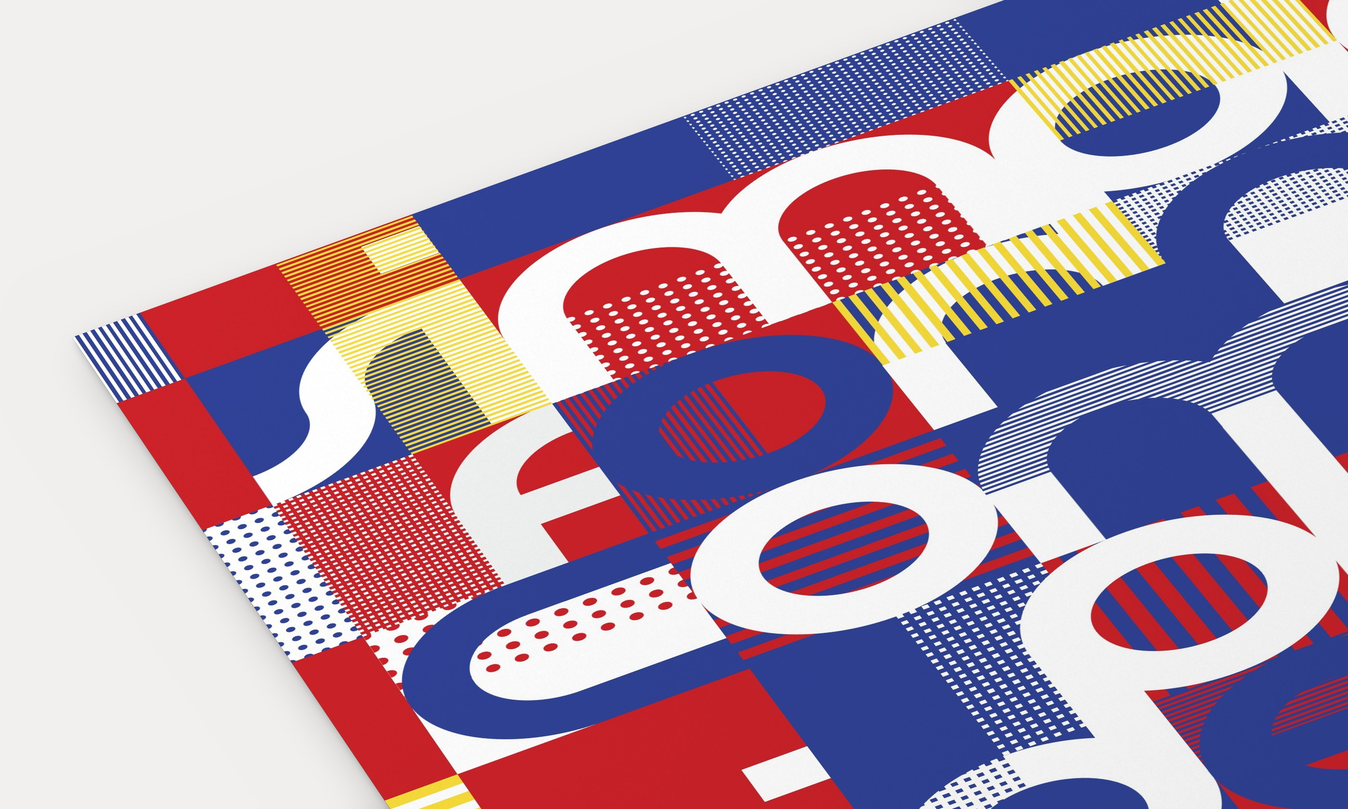
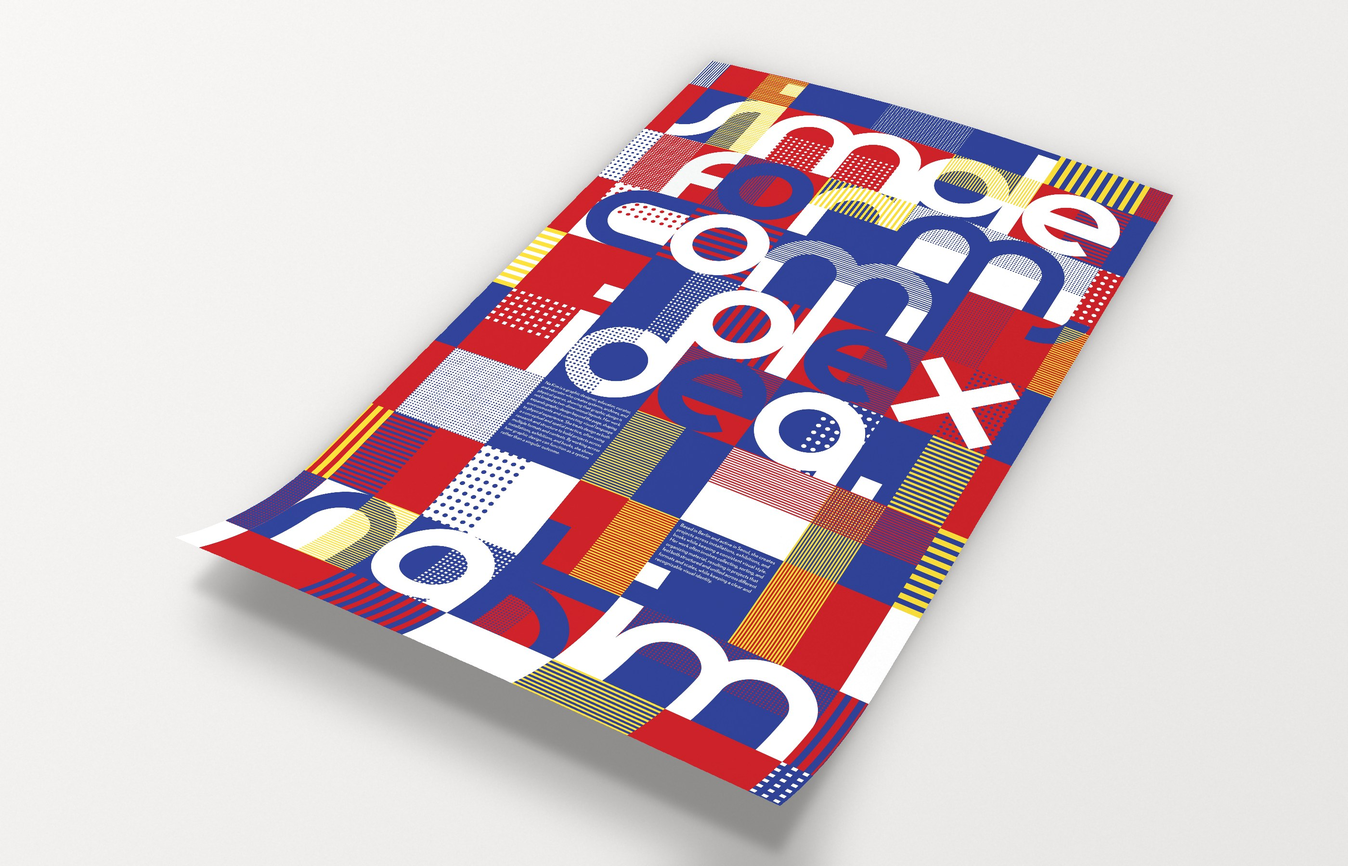
Design Hero: natural 3D angled poster mockup
Claude-Session: https://claude.ai/code/session_015vF3fknx26ijuPFq6BGXjN

diff --git a/design-hero-site/index.html b/design-hero-site/index.html
@@ -109,8 +109,8 @@
               <p class="body">Fine patterns of dots, lines and dashes fill the grid like texture, with bolder ones kept behind the letters so they never compete with legibility. For the “K” in her name, a classmate pointed out that the straightened leg resembled a Korean character, a nod to her background that made me keep it.</p>
             </div>
             <div class="gallery">
-              <img class="spread" src="images/poster-mockup-angle.jpg?v=1" width="2800" height="1680" loading="lazy"
-                alt="Close-up of the poster lying at an angle, showing the 'simple form, complex' letterforms and pattern textures">
+              <img class="spread" src="images/poster-mockup-angle.jpg?v=2" width="2800" height="1800" loading="lazy"
+                alt="The poster lying on a table at an angle, its bottom edge curling up slightly">
               <img class="spread" src="images/poster-mockup-front.jpg?v=1" width="2400" height="2500" loading="lazy"
                 alt="The full poster, 'simple form, complex idea. na kim', shown straight on with a soft shadow">
             </div>
